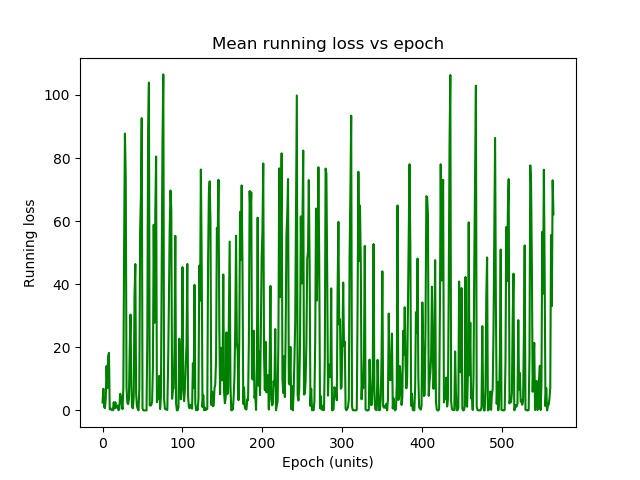
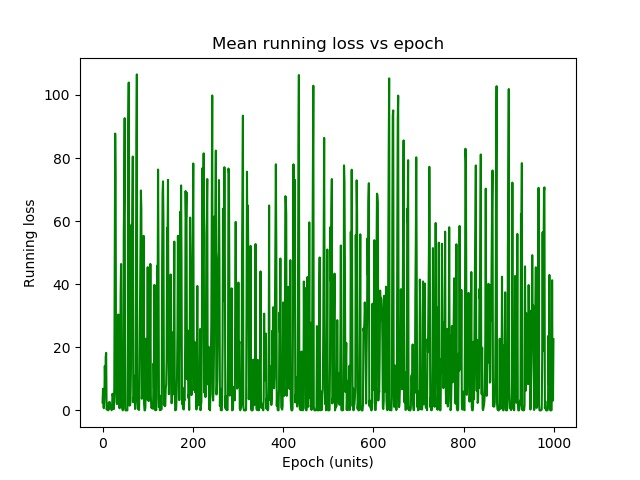
Made changes in tune.py to search for better perfomance batch_size, and changed zero_grad() line before outputs (model appliance)

diff --git a/LSTM_Test/tune.py b/LSTM_Test/tune.py
@@ -160,26 +160,60 @@ def train_model(config, checkpoint_dir="", data_dir=""):
         optimizer.load_state_dict(optimizer_state)
 
     # Train the model
-    for epoch in range(10):
-        outputs = lstm(defsX.to(device))
-        optimizer.zero_grad()
+    if config["bs"]==-1:
+        for epoch in range(10):
+            optimizer.zero_grad()
 
-        # Obtain the value for the loss function
-        loss = criterion(outputs.to(device), defsY.to(device))
+            outputs = lstm(defsX.to(device))
 
-        loss4report = loss.clone()
+            # Obtain the value for the loss function
+            loss = criterion(outputs.to(device), defsY.to(device))
 
-        loss.backward()
+            loss4report = loss.clone()
 
-        optimizer.step()
+            loss.backward()
 
-        # Save model
-        with tune.checkpoint_dir(epoch) as checkpoint_dir:
-            path = os.path.join(checkpoint_dir, "checkpoint")
-            torch.save((lstm.state_dict(), optimizer.state_dict()), path)
+            optimizer.step()
 
-        # Report loss to tune
-        tune.report(loss=loss4report.detach().cpu().numpy())
+            # Save model
+            with tune.checkpoint_dir(epoch) as checkpoint_dir:
+                path = os.path.join(checkpoint_dir, "checkpoint")
+                torch.save((lstm.state_dict(), optimizer.state_dict()), path)
+
+            # Report loss to tune
+            tune.report(loss=loss4report.detach().cpu().numpy())
+    else:
+        batches = []
+        ind = 0
+        while True:
+            try:
+                batches.append({'defsX':torch.index_select(defsX, 0, torch.tensor(np.int64(np.arange(ind,ind+config["bs"],1)))),
+                                'defsY':torch.index_select(defsY, 0, torch.tensor(np.int64(np.arange(ind,ind+config["bs"],1))))})
+                ind += config["bs"]
+            except:
+                break
+        for epoch in tqdm(range(num_epochs), total=num_epochs):
+            for batch in batches:
+                optimizer.zero_grad()
+
+                outputs = self.lstm(batch['defsX'].to(device))
+
+                # Obtain the value for the loss function
+                loss = self.criterion(outputs.to(device), batch['defsY'].to(device))
+
+                loss4report = loss.clone()
+
+                loss.backward()
+
+                optimizer.step()
+
+            # Save model
+            with tune.checkpoint_dir(epoch) as checkpoint_dir:
+                path = os.path.join(checkpoint_dir, "checkpoint")
+                torch.save((lstm.state_dict(), optimizer.state_dict()), path)
+
+            # Report loss to tune
+            tune.report(loss=loss4report.detach().cpu().numpy())
     pass
 
 def test_accuracy(seq_length, model, device="cpu"):
@@ -217,6 +251,7 @@ def hyp_tune(num_samples=10, max_num_epochs=10, gpus_per_trial=2):
               "hs": tune.sample_from(lambda _: np.random.randint(1, 10)),
               "nl": tune.sample_from(lambda _: np.random.randint(1, 4)),
               "sl": tune.sample_from(lambda _: np.random.randint(1,100)),#(1, 288)),
+              "bs": tune.sample_from(lambda _: np.random.randint(1,1000)),
               "lr": tune.loguniform(1e-4, 1e-1)
               }
 

diff --git a/LSTM_Test/train.py b/LSTM_Test/train.py
@@ -38,9 +38,9 @@ class Train(object):
 
         if batch_size==-1:
             for epoch in tqdm(range(num_epochs), total=num_epochs):
-                outputs = self.lstm(defsX.to(self.device))
-
                 self.optimizer.zero_grad()
+
+                outputs = self.lstm(defsX.to(self.device))
 
                 # Obtain the value for the loss function
                 loss = self.criterion(outputs.to(self.device), defsY.to(self.device))
@@ -67,8 +67,9 @@ class Train(object):
                 except:
                     break
             for epoch in tqdm(range(num_epochs), total=num_epochs):
-                self.optimizer.zero_grad()
                 for batch in batches:
+                    self.optimizer.zero_grad()
+
                     outputs = self.lstm(batch['defsX'].to(self.device))
 
                     # Obtain the value for the loss function

diff --git a/LSTM_Test/main.py b/LSTM_Test/main.py
@@ -47,7 +47,7 @@ print('Input file =', inputfile)
 ### Define the Hyperparameters
 
 # Net parameters
-num_epochs = 1000#50#200#1000#300#2000
+num_epochs = 10#50#200#1000#300#2000
 learning_rate = 0.022472643513504736#0.001#0.001#0.01
 input_size = 1
 batch_size = 50  # Batch size is automatically handled in model
